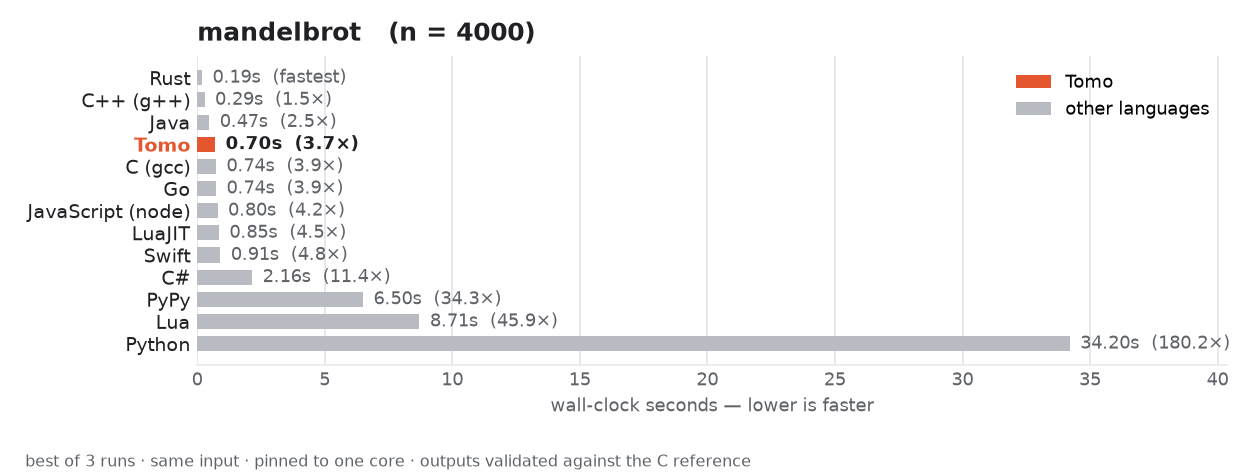
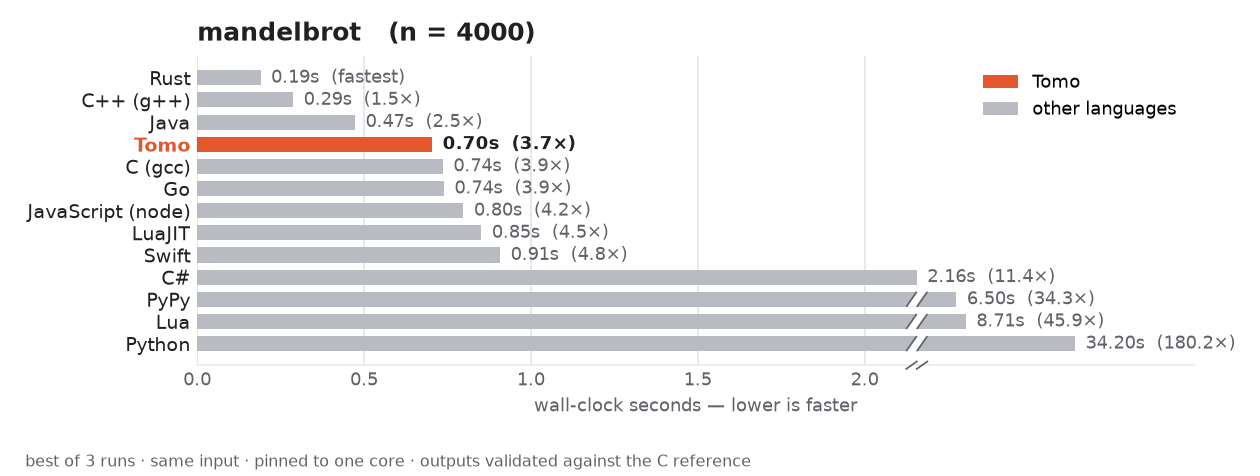
Break the x-axis on panels with runaway outliers
Python's 182s on spectral-norm (against a 0.61s leader) squashed the
other eleven languages into slivers a couple of pixels wide. Such a
panel now breaks its x-axis: the pack keeps its linear scale, and the
entries past the break are compressed into a band at the right, with a
zigzag on the axis and on every bar that crosses it. Bars are still
drawn from their real times -- the compression is matplotlib's built-in
"function" scale, so ticks, gridlines and labels stay in data
coordinates -- and every bar keeps its true time and slowdown label.

Where to break comes from the data: the lowest neighbor-to-neighbor jump
that is large enough to matter, has only a few entries above it, and
actually wins back axis for the pack. The lowest such jump rather than
the largest, because on mandelbrot the largest is Lua->Python at the
very top, where breaking would leave the field just as squashed.

The band gets a fixed share of the axis with a lead-in, so the
compressed entries stay legible and distinguishable from each other
instead of collapsing onto the break. Three panels break today (n-body,
mandelbrot, spectral-norm); the other six are unchanged.

diff --git a/benchmarks/plot.py b/benchmarks/plot.py
@@ -7,6 +7,11 @@ the graph reads as "Tomo vs. the field" and is colorblind-safe by
 construction (one accent vs. gray). Each bar is directly labeled with its
 wall-clock time and slowdown relative to the fastest language.
 
+Where a few entries are far slower than the rest of the field (Python is 300x
+the leader on spectral-norm), the panel's x-axis is broken: the pack keeps a
+linear scale and the runaways are compressed into a band at the right, with a
+zigzag on the axis and on each crossing bar. See break_at() for where.
+
 Writes a combined overview (<out>.svg/.png, all benchmarks stacked) plus one
 standalone graph per benchmark (<out>-<benchmark>.svg/.png).
 
@@ -19,6 +24,8 @@ import sys
 import matplotlib
 matplotlib.use("Agg")
 import matplotlib.pyplot as plt
+import matplotlib.ticker as ticker
+import numpy as np
 from matplotlib.patches import Patch
 
 HERE = os.path.dirname(os.path.abspath(__file__))
@@ -32,9 +39,121 @@ MUTED = "#5f6368"
 GRID = "#e6e8eb"
 
 
+# A single very slow entry squashes everyone else: on spectral-norm Python
+# takes 182s against a 0.6s leader, so every other bar is a sliver. When that
+# happens the axis is broken: everything up to the break keeps a normal linear
+# scale, and the runaway entries past it are drawn on a compressed scale in a
+# band at the right, marked with a zigzag where the scale changes. Where to
+# break is derived from the data rather than fixed at some number of seconds:
+# sort the times and break at the *lowest* neighbor-to-neighbor jump that is
+# big enough to matter and leaves only a few entries above it -- the lowest
+# such jump, not the biggest, because it is the one that wins back the most
+# axis for the pack (mandelbrot's biggest jump is Lua->Python at the very top,
+# but breaking below PyPy is what stops the field from being a sliver).
+BREAK_JUMP = 2.5        # a jump this large can host the break...
+BREAK_MAX_SHARE = 0.25  # ...if at most this fraction of the field is above it
+BREAK_MIN_SQUASH = 0.4  # ...and the rest is squashed into this fraction of the
+                        #    axis, i.e. there is real room to be won back
+# How much of the axis the compressed band gets. It has to be wide enough to
+# read as a region of its own -- the point of breaking is to stop the far end
+# from eating the axis, not to shave the outliers down to a stub.
+BREAK_TAIL_SHARE = 0.22
+# The share of that band spent on the (empty) gap right after the break, so a
+# compressed bar starts clear of the break rather than ending on top of it.
+BREAK_TAIL_LEAD = 0.25
+
+
 def load(path):
     with open(path) as f:
         return json.load(f)
+
+
+def break_at(times):
+    """Break the axis at this value, or None to draw every bar to scale.
+
+    `times` must be sorted ascending.
+    """
+    slowest = times[-1] if times else 0.0
+    if len(times) < 4 or slowest <= 0:
+        return None
+    for i in range(max(1, len(times) - int(len(times) * BREAK_MAX_SHARE)), len(times)):
+        jump = times[i] / times[i - 1] if times[i - 1] > 0 else 0.0
+        if jump < BREAK_JUMP:
+            continue
+        # ...but only if the field really is being squashed; if it already
+        # fills a decent share of the axis there is nothing to win back.
+        if times[i - 1] / slowest <= BREAK_MIN_SQUASH:
+            return times[i - 1]
+    return None
+
+
+def apply_break(ax, brk, times):
+    """Give `ax` a broken x-axis at `brk`; return its (forward, inverse) pair.
+
+    Everything up to `brk` keeps its linear scale; past it, the axis is
+    compressed so the slowest entry lands at the far edge of a band
+    `BREAK_TAIL_SHARE` wide. This is matplotlib's built-in "function" scale, so
+    bars, ticks, gridlines and text all stay in real data coordinates -- only
+    the mapping to the page changes. With no break, the pair is the identity.
+    """
+    slowest = times[-1] if times else 0.0
+    if brk is None or slowest <= brk:
+        return (lambda x: x), (lambda x: x)
+
+    band = brk * BREAK_TAIL_SHARE
+    # Knots of the piecewise-linear map: identity up to the break, then the
+    # empty gap just past it collapses into a short lead-in (so the first
+    # compressed bar clears the break instead of ending on it), and the
+    # entries themselves spread over the rest of the band. The last segment is
+    # extended past the slowest entry so offsets and limits computed beyond it
+    # still map back sensibly.
+    first = min(x for x in times if x > brk)
+    xs = [0.0, brk, first, slowest, slowest + (slowest - first) + 1e-9]
+    ys = [0.0, brk, brk + band * BREAK_TAIL_LEAD, brk + band,
+          brk + band + band * (1 - BREAK_TAIL_LEAD)]
+
+    def forward(x):
+        return np.interp(np.asarray(x, dtype=float), xs, ys)
+
+    def inverse(x):
+        return np.interp(np.asarray(x, dtype=float), ys, xs)
+
+    ax.set_xscale("function", functions=(forward, inverse))
+    # The default locator would spread ticks across the whole (mostly
+    # compressed) data range; ticks only mean anything below the break.
+    ax.set_xticks([t for t in ticker.MaxNLocator(nbins=6, steps=[1, 2, 2.5, 5, 10])
+                   .tick_values(0, brk) if 0 <= t <= brk])
+    return forward, inverse
+
+
+def break_marks(ax, x, fwd, inv, dx):
+    """The x positions of a two-slash break mark centered on `x`.
+
+    The offsets are measured on the page (i.e. after `fwd`), so the mark stays
+    an even zigzag even though the two sides of the break are at different
+    scales.
+    """
+    return [(float(inv(fwd(x) + a)), float(inv(fwd(x) + b)))
+            for a, b in ((-2 * dx, 0), (0, 2 * dx))]
+
+
+def draw_bar_break(ax, x, yi, height, fwd, inv, dx):
+    """Zigzag a bar where it crosses the break, so the scale change is visible."""
+    h = height / 2
+    (a0, a1), (b0, b1) = break_marks(ax, x, fwd, inv, dx)
+    # A white wedge cuts the bar in two, with a slash fencing off each side.
+    ax.fill([a0, a1, b1, b0], [yi + h, yi - h, yi - h, yi + h],
+            color="white", zorder=4, linewidth=0)
+    for x0, x1 in ((a0, a1), (b0, b1)):
+        ax.plot([x0, x1], [yi + h, yi - h], color=MUTED, linewidth=0.9,
+                zorder=5, solid_capstyle="butt")
+
+
+def draw_axis_break(ax, x, fwd, inv, dx):
+    """The same zigzag on the x-axis itself, where the scale changes."""
+    for x0, x1 in break_marks(ax, x, fwd, inv, dx):
+        ax.plot([x0, x1], [-0.012, 0.012], transform=ax.get_xaxis_transform(),
+                color=MUTED, linewidth=0.9, clip_on=False, zorder=5)
 
 
 def panel(ax, bname, block):
@@ -58,6 +177,12 @@ def panel(ax, bname, block):
         else:
             colors.append(NEUTRAL)
 
+    # One runaway entry would squash the rest of the field into slivers, so
+    # past `brk` the axis switches to a compressed scale (see break_at).
+    brk = break_at(times)
+    slowest = times[-1] if times else 1.0
+    fwd, inv = apply_break(ax, brk, times)
+
     # Draw top (fastest) at the top of the panel.
     ax.barh(y, times, color=colors, height=0.68, zorder=3)
     ax.invert_yaxis()
@@ -70,8 +195,11 @@ def panel(ax, bname, block):
             tick.set_color(ACCENT)
             tick.set_fontweight("bold")
 
-    xmax = max(times) if times else 1.0
-    ax.set_xlim(0, xmax * 1.18)
+    # Everything below is laid out on the page, i.e. in `fwd` space, and
+    # converted back to data values -- with a break, a data-space offset would
+    # mean two different distances on the two sides of it.
+    page_max = float(fwd(slowest))
+    ax.set_xlim(0, float(inv(page_max * 1.18)))
     for spine in ("top", "right", "left"):
         ax.spines[spine].set_visible(False)
     ax.spines["bottom"].set_color(GRID)
@@ -79,14 +207,18 @@ def panel(ax, bname, block):
     ax.tick_params(axis="y", length=0)
     ax.xaxis.grid(True, color=GRID, linewidth=1, zorder=0)
     ax.set_axisbelow(True)
+    if brk is not None:
+        draw_axis_break(ax, brk, fwd, inv, page_max * 0.006)
 
     for yi, (lang, _, s, valid) in zip(y, rows):
         rel = s / fastest if fastest else 1.0
         txt = f"{s:.2f}s" + (f"  ({rel:.1f}×)" if rel >= 1.005 else "  (fastest)")
         if not valid:
             txt += "  ✗ output"
-        ax.text(s + xmax * 0.012, yi, txt, va="center", ha="left",
-                fontsize=9, color=INK if lang == "tomo" else MUTED,
+        if brk is not None and s > brk:
+            draw_bar_break(ax, brk, yi, 0.68, fwd, inv, page_max * 0.006)
+        ax.text(float(inv(fwd(s) + page_max * 0.012)), yi, txt, va="center",
+                ha="left", fontsize=9, color=INK if lang == "tomo" else MUTED,
                 fontweight="bold" if lang == "tomo" else "normal", zorder=4)
 
     args = " ".join(block.get("args", []))

diff --git a/benchmarks/README.md b/benchmarks/README.md
@@ -17,6 +17,14 @@ everything locally and regenerates these PNGs.
 
 ![Tomo vs. other languages across nine benchmarks](results.png)
 
+Where a handful of entries are far slower than the rest of the field, the
+panel's x-axis is **broken**: the pack keeps a linear scale and the runaways
+are compressed into a band at the right, marked with a zigzag on the axis and
+on each bar that crosses it. Without it, Python's 182s on spectral-norm would
+squash the other eleven languages into slivers. Every bar keeps its real time
+and slowdown as a label, and where to break is picked from the data (`break_at`
+in `plot.py`), not hardcoded per benchmark.
+
 With the field now up to ~17 languages across all nine of the CLBG's
 library-free benchmarks, the useful summary is that **Tomo sits inside the
 compiled-language cluster and beats every scripting language on every single
@@ -103,9 +111,8 @@ what `memchr` computes), instead of a scalar per-element loop. Measured on a
 .find(...)` calls — the same technique Go and C# use, expressed in pure Tomo
 with no inline C — brought it to **0.25s, closing most of that gap: clearly
 ahead of Java and Python, and within striking distance of C#/Swift**.
-`List.find`'s
-new memchr fast path is a general win too, not specific to this benchmark:
-it speeds up any byte/int8-list search in any Tomo program.
+`List.find`'s new memchr fast path is a general win too, not specific to this
+benchmark: it speeds up any byte/int8-list search in any Tomo program.
 
 We tried one more restructuring first that *didn't* pan out, worth recording
 honestly: mimicking Go's exact technique of transforming line-by-line into a
